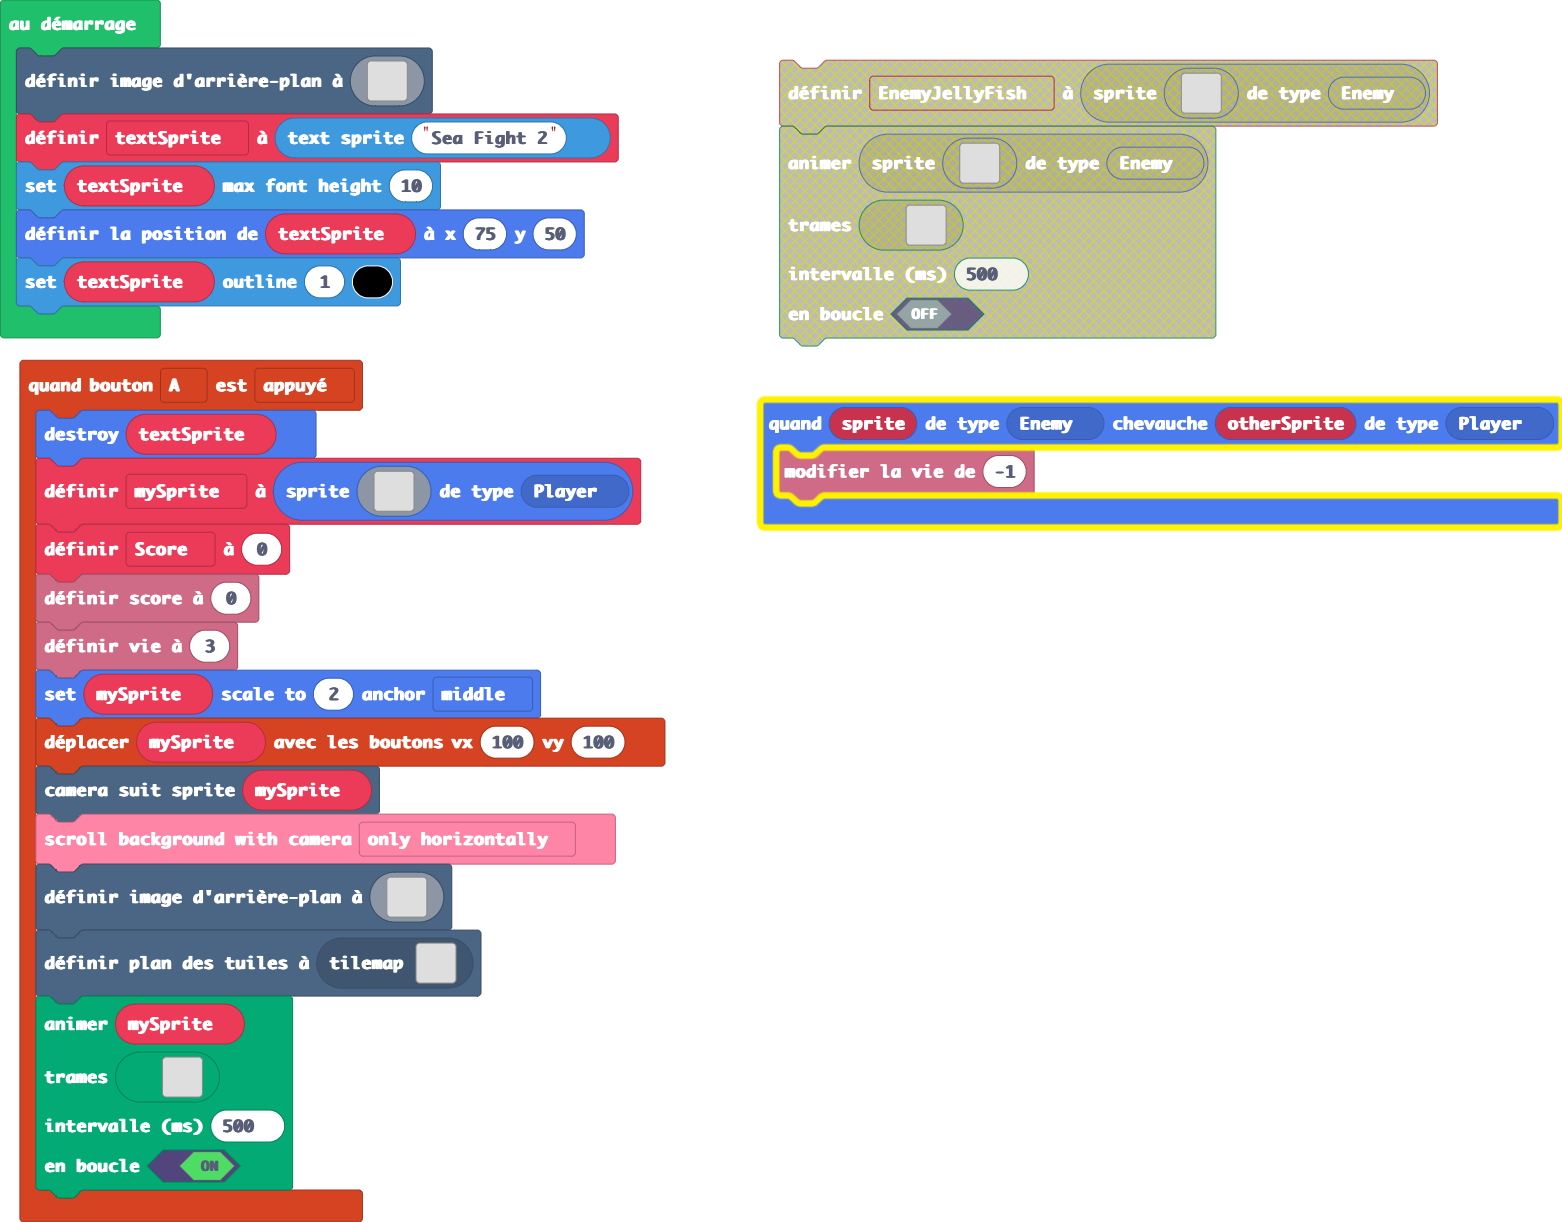
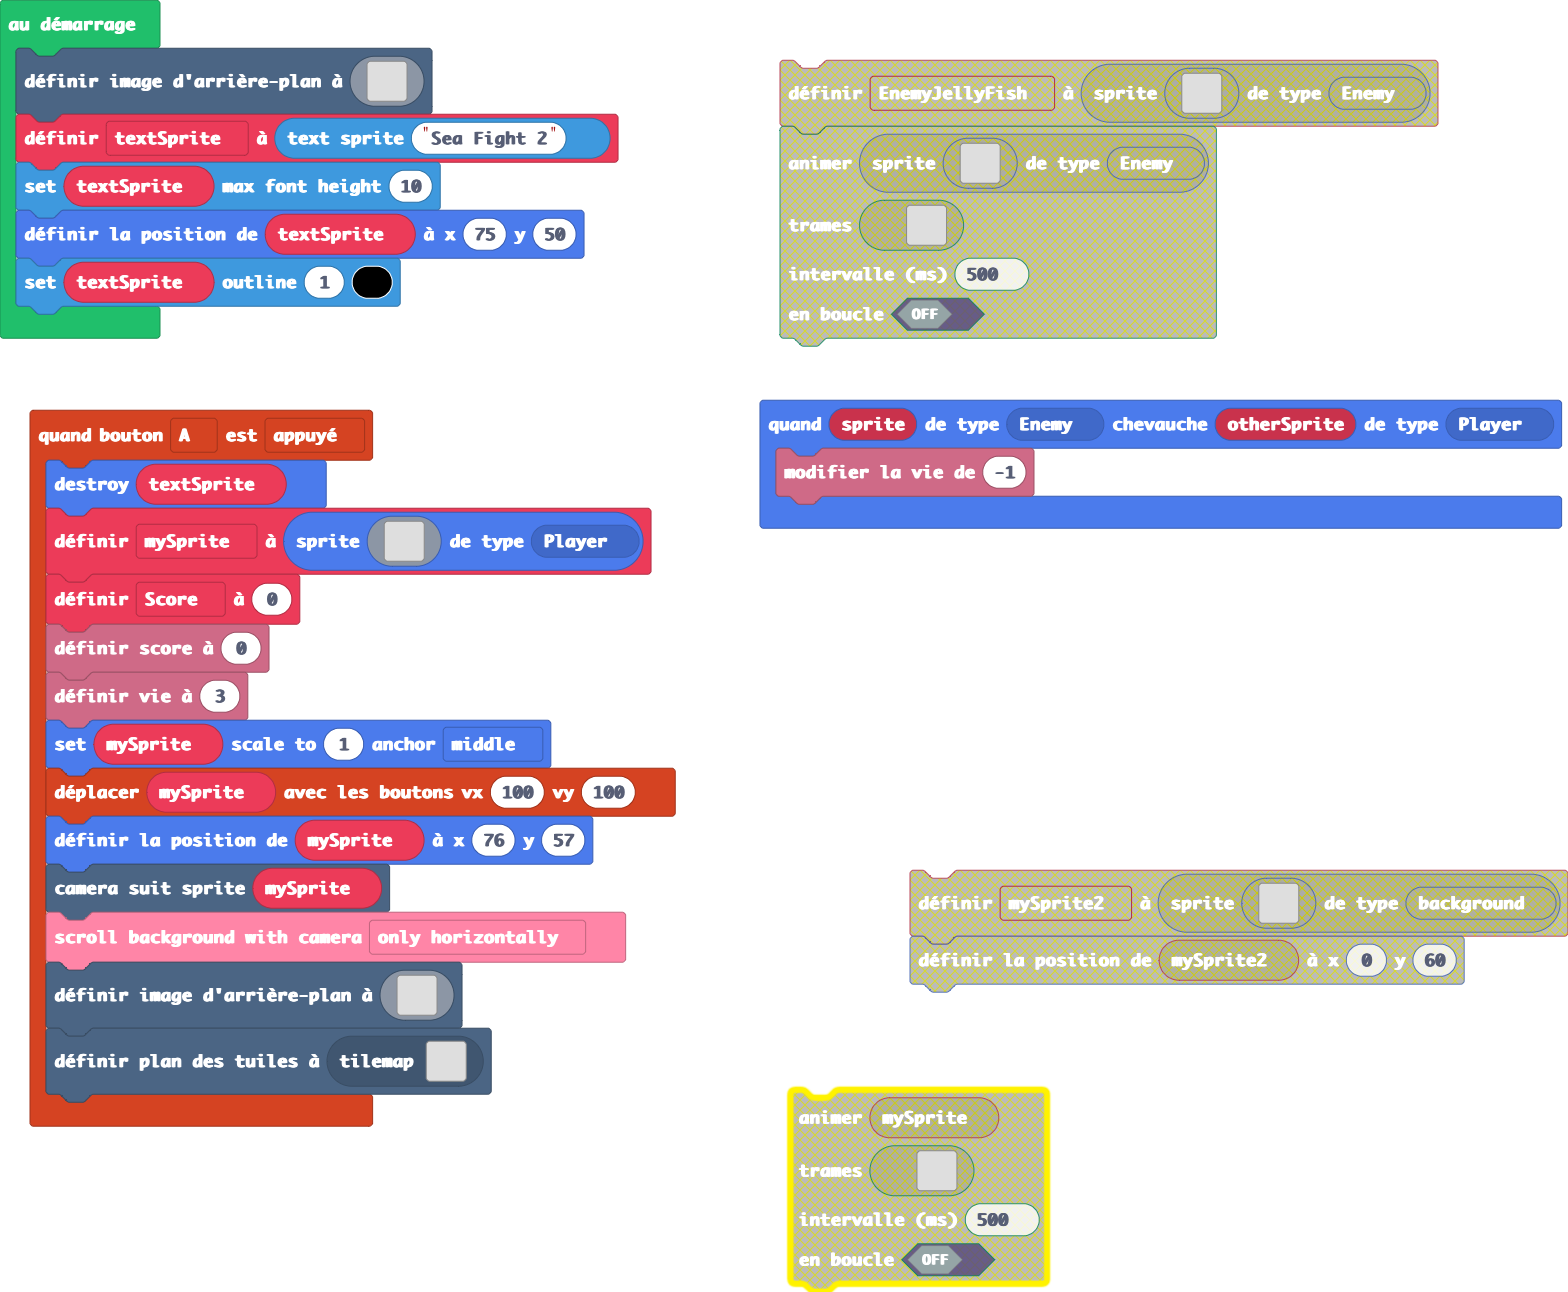
Mise à jour pxt.json, main.blocks, main.ts, images.g.jres, images.g.ts, tilemap.g.jres, tilemap.g.ts

diff --git a/tilemap.g.ts b/tilemap.g.ts
@@ -32,28 +32,32 @@ namespace myTiles {
     export const tile15 = image.ofBuffer(hex``);
     //% fixedInstance jres blockIdentity=images._tile
     export const tile16 = image.ofBuffer(hex``);
+    //% fixedInstance jres blockIdentity=images._tile
+    export const tile1 = image.ofBuffer(hex``);
+    //% fixedInstance jres blockIdentity=images._tile
+    export const tile17 = image.ofBuffer(hex``);
 
     helpers._registerFactory("tilemap", function(name: string) {
         switch(helpers.stringTrim(name)) {
             case "niveau1":
[1 lines of base64/hex data omitted]
-222222222222222222222222222222
-2............................2
-2............................2
-2............................2
-2............................2
-2............................2
-2............................2
-2............................2
-2............................2
-2............................2
-2............................2
-2............................2
-2............................2
-2............................2
-2............................2
-222222222222222222222222222222
-`, [myTiles.transparency16,sprites.builtin.oceanSand2,sprites.builtin.oceanSand1,sprites.builtin.oceanSand3,sprites.builtin.oceanSand13,sprites.builtin.oceanSand15,sprites.builtin.oceanSand14,myTiles.tile2,myTiles.tile3,myTiles.tile4,myTiles.tile5,myTiles.tile6,myTiles.tile7,myTiles.tile8,myTiles.tile10,myTiles.tile11,myTiles.tile12,myTiles.tile13,myTiles.tile14,myTiles.tile15,myTiles.tile16], TileScale.Sixteen);
[1 lines of base64/hex data omitted]
+2222222222222222222222222222222222222222222222222222222222222222222222222222222222222222222222222222222222222222222222222222222222222222222222222222222222222222222222222222222
+2.............................................................................................................................................................................2
+2.............................................................................................................................................................................2
+2.............................................................................................................................................................................2
+2.............................................................................................................................................................................2
+2.............................................................................................................................................................................2
+2.............................................................................................................................................................................2
+2.............................................................................................................................................................................2
+2.............................................................................................................................................................................2
+2.............................................................................................................................................................................2
+2.............................................................................................................................................................................2
+2.............................................................................................................................................................................2
+2.............................................................................................................................................................................2
+2.............................................................................................................................................................................2
+2.............................................................................................................................................................................2
+2222222222222222222222222222222222222222222222222222222222222222222222222222222222222222222222222222222222222222222222222222222222222222222222222222222222222222222222222222222
+`, [myTiles.transparency16,sprites.builtin.oceanSand2,sprites.builtin.oceanSand1,sprites.builtin.oceanSand13,sprites.builtin.oceanSand14,myTiles.tile2,myTiles.tile3,myTiles.tile4,myTiles.tile5,myTiles.tile6,myTiles.tile7,myTiles.tile8,myTiles.tile10,myTiles.tile11,myTiles.tile12,myTiles.tile13,myTiles.tile14,myTiles.tile15,myTiles.tile16], TileScale.Sixteen);
         }
         return null;
     })
@@ -91,6 +95,10 @@ namespace myTiles {
             case "tile15":return tile15;
             case "myTile14":
             case "tile16":return tile16;
+            case "myTile":
+            case "tile1":return tile1;
+            case "myTile15":
+            case "tile17":return tile17;
         }
         return null;
     })

diff --git a/images.g.ts b/images.g.ts
@@ -234,6 +234,89 @@ fff........ccddfbbdbf1111ff.....
 ..................................................
 ..................................................
 `;
+            case "image6":
+            case "YellowSubmarine":return img`
+....................................................................................................
+....................................................................................................
+....................................................................................................
+....................................................................................................
+....................................................................................................
+....................................................................................................
+....................................................................................................
+....................................................................................................
+....................................................................................................
+....................................................................................................
+....................................................................................................
+....................................................................................................
+.............................................................fff....................................
+............................................................ff12f...................................
+............................................................ff12f...................................
+........................................................fff.f4fff...................................
+.......................................................f221ff44f....................................
+.......................................................f221ff4f.....................................
+.......................................................f111ff4f.....................................
+........................................................fff5f4fff...................................
+.........................................................f55f4f11f..................................
+......................................................ff.f55ff1221f.................................
+.....................................................f21ff55ff1221f.................................
+.....................................................f21ff55f5f11f..................................
+......................................................ff4f55f55ff...................................
+.......................................................f4f55f555f...................................
+.......................................................f4f55f555f...................................
+.......................................................f4f55f555f...................................
+.......................................................f4f55f555f...................................
+.....................................................fffffffffffff..................................
+....................................................f2f2f2f2f2f2f...................................
+....................................................fffffffffffff...................................
+...................................................f1111111111111f..................................
+..................................................f111111111111111f.................................
+...........ffffff................................f11111fffff111111ff................................
+..........f555555f...............................f1111f32323f1111f1f................................
+...........fffff55f..............................f111f23fff32f111f1f................................
+.........ffff..f555f.............................f11f22f333f22f11f11f...............................
+.........fdddf..f55f.............................f11f3f33333f3f11f111ff.............................
+........fdddddfff555f............................f1f22f39993f22f1f1111ffffffff......................
+.........fddddfdf5555f...........................f1f33f39293f33f11ff111111f111ff....................
+.........fddddfff55555ff........................f11f22f39293f22f1111ffffff111111fffff...............
+........fdddddf.f5555555ffffffffffffffffffffffff111fffffffffffff111111111111111111111fffffffff......
+........fdddddf.f5555555555f444444444f555f2f111111111111111111111ffffffffffffffffffff2222f5555ff....
+.........fddddfff5555555555f444444444f555f2f11111111111111111111f22222222222222222222222f5fff555f...
+.........fddddfdf5555555555f444444444f555f22f111111111111111111f22ffffffffffffffffffffff5f444f555f..
+........fdddddfff5555555555f44444444f55555f22f1111111111111111f22f5f22f5f22f5f22f5f22f555f4444f55f..
+........fddddf..f55555555555ffffffff5555555f22f111111111111111f2f5f2ee2f2ee2f2ee2f2ee2f555ffff555f..
+.........ffff..f5555555555555555555555555ffff22fffffffffffffff22f5f2ee2f2ee2f2ee2f2ee2f5555555555f..
+.........fffffff55555555555555555555555ff2222222222222222222222f555f22f5f22f5f22f5f22f5555555555f...
+........f55555555555555555555555555555f222fffffffffffffffffffff55555ff555ff555ff555ff5555555555f....
+.........ffffffffffffff5555555555555ff22ff555f22f5f22f5f22f5f22f55555555555555555555555555555ff.....
+...................f..f555555555555f222f5555f2ee2f2ee2f2ee2f2ee2f5555555555fffffffff55555555f.......
+..................f2ff5555555555555f22f55555f2ee2f2ee2f2ee2f2ee2f555555555f555555555f555555f........
+..................f2f55555555555555f2f5555555f22f5f22f5f22f5f22f5555555555f555555555f555555f........
+..................f2ffffffffffffffff2f55555555ff555ff555ff555ff55555555555f555555555f555555f........
+..................f2f..............f2f555555555555555555555555555555555555f555555555f55555f.........
+...................f................ff555555555555555555555555555555555555f555555555f5555f..........
+.....................................f55555555555555fffffffffffffff5555555f555555555f555f...........
+......................................f555555555555f555555555555555f555555f555555555f5ff............
+.......................................ff5555555555f555555555555555f555555f555555555ff..............
+.........................................fffffffff5f555555555555555f555555f5555fffff................
+..................................................fffffffffffffffffffffffffffff.....................
+....................................................................................................
+....................................................................................................
+....................................................................................................
+....................................................................................................
+....................................................................................................
+....................................................................................................
+....................................................................................................
+....................................................................................................
+....................................................................................................
+....................................................................................................
+....................................................................................................
+....................................................................................................
+....................................................................................................
+....................................................................................................
+....................................................................................................
+....................................................................................................
+....................................................................................................
+`;
         }
         return null;
     })

diff --git a/main.ts b/main.ts
@@ -1,11 +1,15 @@
+namespace SpriteKind {
+    export const background = SpriteKind.create()
+}
 controller.A.onEvent(ControllerButtonEvent.Pressed, function () {
     sprites.destroy(textSprite)
-    mySprite = sprites.create(assets.image`shark1`, SpriteKind.Player)
+    mySprite = sprites.create(assets.image`YellowSubmarine`, SpriteKind.Player)
     Score = 0
     info.setScore(0)
     info.setLife(3)
-    mySprite.setScale(2, ScaleAnchor.Middle)
+    mySprite.setScale(1, ScaleAnchor.Middle)
     controller.moveSprite(mySprite, 100, 100)
+    mySprite.setPosition(76, 57)
     scene.cameraFollowSprite(mySprite)
     scroller.scrollBackgroundWithCamera(scroller.CameraScrollMode.OnlyHorizontal)
     scene.setBackgroundImage(img`
@@ -131,80 +135,6 @@ controller.A.onEvent(ControllerButtonEvent.Pressed, function () {
         ffffffffffffffffffffffffffffffffffffffffffffffffffffffffffffffffffffffffffffffffffffffffffffffffffffffffffffffffffffffffffffffffffffffffffffffffffffffffffffffff
         `)
     tiles.setCurrentTilemap(tilemap`niveau1`)
-    animation.runImageAnimation(
-    mySprite,
-    [img`
-        ..............fffcc.............
-        ..............fcbddcc...........
-        ...............fbbddcc..........
-        ...............fcbbccf..........
-        ..ccc.........ffccccccfffff.....
-        ..cbbcc....fffcbbbbcbbbbbbbff...
-        ...cbbdc.ffcccbbbbcbcbbbbbbbbf..
-        ...fbbdcfcccccbbbcbcbbffbbbbbbff
-        ....fbbffcccccbbbbbcb1ff11bbbcbf
-        ....fcbbcccccccbbbbb11111111bbbf
-        ....fcccccccccccbbbb11cc33111bf.
-        ...fcbbffbdbcccccbbb111c13cccf..
-        ...fbbf..ccddddcfbbbc111c31cf...
-        ..fbbf.....ccdccbbdbf111cccf....
-        ..fff........ccbbdcfcccc........
-        ..............fffff.............
-        `,img`
-        ..............fffcc.............
-        ..............fbbddc............
-        ...............fbbddc...........
-        ccc............fcbbccf..........
-        cbbcc.........ffccccccffffff....
-        .cbbdc.....fffcbbbbbbbbbbbbbff..
-        .fbbddc..ffcccbbbbcbcbbbbbbbbbff
-        ..fbbdfffcccccbbbcbcbbffbbbbbcbf
-        ..fcbbbcccccccbbbcbcb1ff1111bbbf
-        ..fccbcccccccccbbbbbb11111111bf.
-        .fcbbfffccccccccbbbb11cc33cccf..
-        .fbbf...cbdbcccccbbb111c131cf...
-        fbbf.....ccdddddfbbbc111c33f....
-        fff........ccddfbbdbf1111ff.....
-        .............cfbbdbfccccc.......
-        ..............fffff.............
-        `,img`
-        ..............fffc..............
-        ..............fbddcc............
-        ..ccc.........ffbddbc...........
-        ..cbbc.........fcbbccf..........
-        ...cbdc.......ffccccccfffffff...
-        ...fbdc....fffcbbbbbbbbbbbbbcff.
-        ....fbdc.ffcccbbbbbbcbbbbbbbbbcf
-        ....fcdffcccccbbbcbcbbbffbbbbcbf
-        ....fcbbccccccbbbcbcbbbff1111bbf
-        ...fcbbccccccccbbbcbb11111111bf.
-        ...fbbfffcccccccbbbb11bc33cccf..
-        ..fbbf..cbdbcccccbbb111c131cf...
-        ..fff....cbdddddccbbc111c33f....
-        ..........ccbddccbbdf1111ff.....
-        ............ccfbbbdfccccc.......
-        ..............fffff.............
-        `,img`
-        ..............fffcc.............
-        ..............fbbddc............
-        ...............fbbddc...........
-        ccc............fcbbccf..........
-        cbbcc.........ffccccccffffff....
-        .cbbdc.....fffcbbbbbbbbbbbbbff..
-        .fbbddc..ffcccbbbbcbcbbbbbbbbbff
-        ..fbbdfffcccccbbbcbcbbffbbbbbcbf
-        ..fcbbbcccccccbbbcbcb1ff1111bbbf
-        ..fccbcccccccccbbbbbb11111111bf.
-        .fcbbfffccccccccbbbb11cc33cccf..
-        .fbbf...cbdbcccccbbb111c131cf...
-        fbbf.....ccdddddfbbbc111c33f....
-        fff........ccddfbbdbf1111ff.....
-        .............cfbbdbfccccc.......
-        ..............fffff.............
-        `],
-    500,
-    true
-    )
 })
 sprites.onOverlap(SpriteKind.Enemy, SpriteKind.Player, function (sprite, otherSprite) {
     info.changeLifeBy(-1)
